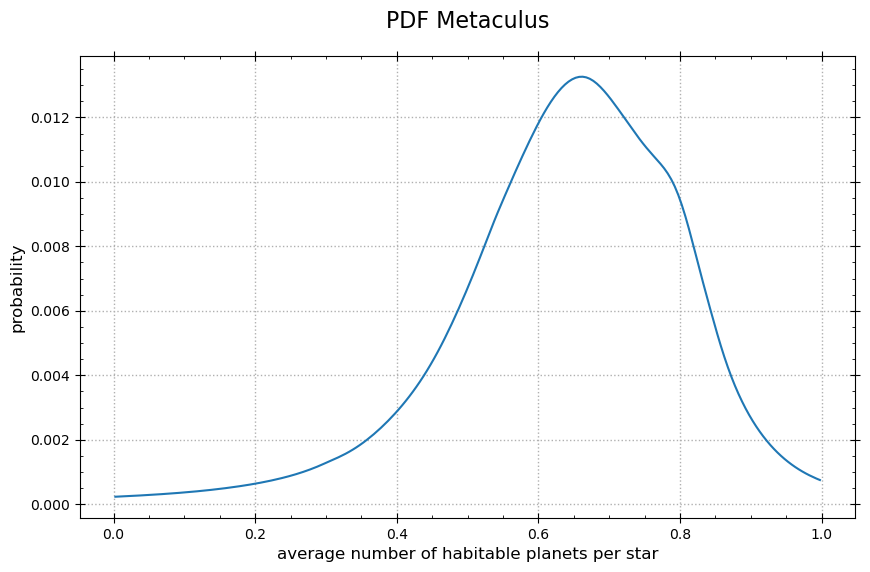
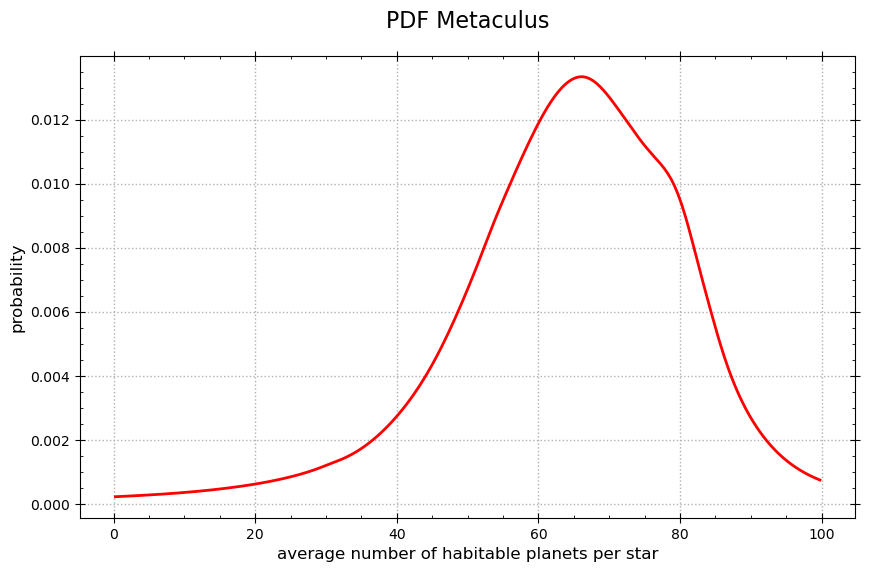
Avançando na leitura de dados via API.

diff --git a/Teste.py b/Teste.py
@@ -2,114 +2,52 @@ import pandas as pd
 import matplotlib.pyplot as plt
 from matplotlib.ticker import (MultipleLocator, AutoMinorLocator)
 
-y1 = [0.11509, 0.11786, 0.12068, 0.12354, 0.12645, 0.12942, 0.13243, 0.13549, 0.13861, 0.14178, 
-     0.14501, 0.1483, 0.15165, 0.15506, 0.15853, 0.16207, 0.16568, 0.16937, 0.17317, 0.17707, 
-     0.18108, 0.18521, 0.18945, 0.19381, 0.19828, 0.20288, 0.2076, 0.21245, 0.21742, 0.22252, 
-     0.22776, 0.23313, 0.23863, 0.24427, 0.25005, 0.25597, 0.26203, 0.26823, 0.27458, 0.28108, 
-     0.28773, 0.29453, 0.30148, 0.30859, 0.31587, 0.32332, 0.33093, 0.33873, 0.34671, 0.35489, 
-     0.36328, 0.37187, 0.38069, 0.38975, 0.39906, 0.40864, 0.41851, 0.42867, 0.43916, 0.45, 
-     0.46012, 0.46802, 0.47418, 0.4793, 0.48418, 0.48951, 0.49586, 0.5036, 0.51295, 0.524, 
-     0.53675, 0.55117, 0.56718, 0.58472, 0.60372, 0.62414, 0.64595, 0.66911, 0.69364, 0.71954, 
-     0.74683, 0.77552, 0.80567, 0.8373, 0.87046, 0.90521, 0.9416, 0.97969, 1.01956, 1.06128, 
-     1.10492, 1.15049, 1.19813, 1.24799, 1.30031, 1.35533, 1.41341, 1.47497, 1.54051, 1.61062, 
-     1.68588, 1.76681, 1.85364, 1.94604, 2.0427, 2.14103, 2.23697, 2.32527, 2.40042, 2.45798, 
-     2.50184, 2.53914, 2.5699, 2.59415, 2.61208, 2.62397, 2.63042, 2.63212, 2.62952, 2.62303, 
-     2.61256, 2.59809, 2.58004, 2.55873, 2.53459, 2.50801, 2.47937, 2.44896, 2.41699, 2.38359, 
-     2.34878, 2.31253, 2.27458, 2.23293, 2.18719, 2.13776, 2.08516, 2.03014, 1.97355, 1.91623, 
-     1.85893, 1.80223, 1.7466, 1.69233, 1.63959, 1.58847, 1.539, 1.4912, 1.44507, 1.40062, 
-     1.35784, 1.31681, 1.27765, 1.2405, 1.20547, 1.17263, 1.142, 1.1135, 1.08697, 1.06214, 
-     1.03866, 1.01607, 0.99385, 0.9714, 0.94809, 0.92326, 0.89635, 0.86692, 0.83296, 0.78833, 
-     0.73529, 0.67815, 0.62115, 0.56749, 0.51896, 0.47617, 0.43894, 0.40668, 0.37866, 0.35416, 
-     0.33253, 0.31324, 0.29588, 0.28011, 0.26567, 0.25235, 0.24001, 0.22851, 0.21776, 0.20768, 
-     0.1982, 0.18927, 0.18085, 0.17288, 0.16535, 0.15822, 0.15145, 0.14503, 0.13894, 0.13315, 
-     0.12765]
+# reading csv data from the API
 
-y2 = [0.03781, 0.03884, 0.0399, 0.04098, 0.0421, 0.04325, 0.04444, 0.04566, 0.04691, 0.0482, 
-      0.04953, 0.0509, 0.0523, 0.05376, 0.05525, 0.05679, 0.05838, 0.06002, 0.06172, 0.06347, 
-      0.06529, 0.06716, 0.06911, 0.07111, 0.07319, 0.07534, 0.07757, 0.07987, 0.08225, 0.08472, 
-      0.08727, 0.08991, 0.09264, 0.09547, 0.0984, 0.10143, 0.10458, 0.10783, 0.11121, 0.11471, 
-      0.11834, 0.12211, 0.12603, 0.1301, 0.13433, 0.13873, 0.14331, 0.14809, 0.15308, 0.15828, 
-      0.16373, 0.16942, 0.17538, 0.18163, 0.18819, 0.19508, 0.20233, 0.20995, 0.21798, 0.22643, 
-      0.23507, 0.24353, 0.25194, 0.26052, 0.2695, 0.27908, 0.28942, 0.30064, 0.31282, 0.32601, 
-      0.34021, 0.35543, 0.37167, 0.38891, 0.40715, 0.42638, 0.4466, 0.46781, 0.49, 0.51319, 
-      0.5374, 0.56263, 0.58891, 0.61627, 0.64473, 0.67434, 0.70514, 0.73716, 0.77046, 0.80508, 
-      0.84106, 0.87843, 0.91724, 0.95752, 0.99931, 1.04268, 1.08765, 1.13428, 1.18264, 1.23277, 
-      1.28473, 1.33857, 1.39427, 1.45173, 1.51072, 1.57079, 1.63129, 1.6914, 1.75023, 1.80706, 
-      1.86235, 1.91702, 1.97098, 2.02411, 2.07631, 2.12747, 2.17751, 2.22637, 2.27388, 2.31987, 
-      2.364, 2.40597, 2.44553, 2.48242, 2.51644, 2.54736, 2.575, 2.59916, 2.61961, 2.63616, 
-      2.64857, 2.65665, 2.66023, 2.65892, 2.65273, 2.6419, 2.62679, 2.6079, 2.58578, 2.56099, 
-      2.53408, 2.50552, 2.47575, 2.44512, 2.41399, 2.38266, 2.35144, 2.32064, 2.29056, 2.26148, 
-      2.2336, 2.207, 2.18155, 2.15684, 2.13205, 2.10594, 2.07686, 2.04291, 2.00219, 1.95321, 
-      1.89519, 1.82834, 1.7538, 1.67347, 1.58956, 1.50421, 1.41923, 1.33594, 1.25474, 1.17442, 
-      1.09578, 1.02, 0.9481, 0.88077, 0.81825, 0.7605, 0.70723, 0.65809, 0.6127, 0.57069, 
-      0.53176, 0.49562, 0.46203, 0.43081, 0.40176, 0.37474, 0.3496, 0.32622, 0.30449, 0.28429, 
-      0.26553, 0.2481, 0.23192, 0.2169, 0.20295, 0.19002, 0.17801, 0.16687, 0.15652, 0.14692, 
-      0.138]
+url_p1 = "https://www.metaculus.com/api2/questions/1337/download_csv/"
+url_p2 = "https://www.metaculus.com/api2/questions/1338/download_csv/"
+url_p3 = "https://www.metaculus.com/api2/questions/1339/download_csv/"
+url_p4 = "https://www.metaculus.com/api2/questions/1340/download_csv/"
+url_p5 = "https://www.metaculus.com/api2/questions/1341/download_csv/"
+url_p6 = "https://www.metaculus.com/api2/questions/1342/download_csv/"
+url_p7 = "https://www.metaculus.com/api2/questions/1343/download_csv/"
 
-df = pd.read_csv("Dados.txt", sep = "	")
+df_p1 = pd.read_csv(url_p3)
 
-print(df)
+# reducing data to just the PDF distribution
+
+df_p1 = df_p1.iloc[-2, 11:211].reset_index(drop = False)
+
+df_p1.columns = ['x_norm', 'PDF']
+
+df_p1["x_norm"].replace(to_replace = "pdf_at_", value = "", regex = True, inplace = True)
+
+df_p1["x_norm"] = df_p1["x_norm"].astype("float")
+df_p1["PDF"] = df_p1["PDF"].astype("float")
+df_p1["x"] = df_p1["x_norm"].apply(lambda x : 10**-6 + x*(100 - 10**-6))
+
+
+
+print(df_p1["PDF"].max())
+
+
+print(df_p1.info())
+print(df_p1.shape)
+print(df_p1.head())
+print(df_p1.tail())
 
 
 
 #-------------------------------------------
-print(len(y1), len(y2))
+# Figures
 
-#-------------------------------------------
 fig1, ax1 = plt.subplots(figsize = (10, 6))
 
-ax1.hist(y1, 
-         #range = (45, 200), 
-         histtype = "step", 
-         fill = True, 
-         density = True, 
-         #alpha = 0.2, 
-         #bins = 50, 
-         color = (1.0, 0.0, 0.0, 0.1), 
-         edgecolor = "red", 
-         linewidth = 2,
-         label = "y1")
+ax1.plot(df_p1["x"], df_p1["PDF"],
+         color = "red",
+         linewidth = 2)
 
-ax1.hist(y2, 
-         #range = (45, 200), 
-         histtype = "step", 
-         fill = True, 
-         density = True, 
-         #alpha = 0.2, 
-         #bins = 50, 
-         color = (0.0, 0.5, 0.5, 0.1), 
-         edgecolor = (0.0, 0.5, 0.5, 1.0), 
-         linewidth = 2,
-         label = "y2")
-
-#plt.legend()
-
-# Design
-ax1.set_xlabel("y", fontsize = 12)
-ax1.set_ylabel("Frequency", fontsize = 12)
-ax1.set_title("Metaculus", fontsize = 16, pad = 20)
-
-ax1.grid(True, linestyle = ":", linewidth = "1")
-
-# Axes
-#ax1.set_xlim(45, 200)
-#ax1.set_ylim(0, 300)
-#plt.yscale("log")
-
-ax1.minorticks_on()
-ax1.tick_params(which = "major", direction = "inout", length = 7)
-ax1.tick_params(which = "minor", direction = "in", length = 2)
-ax1.tick_params(which = "both", bottom = True, top = True, left=True, right = True)
-ax1.tick_params(labelbottom = True, labeltop = False, labelleft = True, labelright = False)
-
-plt.savefig("Y Metaculus.png", bbox_inches = "tight")
-
-#-------------------------------------------
-fig2, ax2 = plt.subplots(figsize = (10, 6))
-
-ax2.plot(df["prob"], df["pdf"])
-
-"""ax2.hist(y1, 
+"""ax1.hist(y1, 
          #range = (45, 200), 
          histtype = "step", 
          fill = True, 
@@ -124,22 +62,22 @@ ax2.plot(df["prob"], df["pdf"])
 #plt.legend()
 
 # Design
-ax2.set_xlabel("average number of habitable planets per star", fontsize = 12)
-ax2.set_ylabel("probability", fontsize = 12)
-ax2.set_title("PDF Metaculus", fontsize = 16, pad = 20)
+ax1.set_xlabel("average number of habitable planets per star", fontsize = 12)
+ax1.set_ylabel("probability", fontsize = 12)
+ax1.set_title("PDF Metaculus", fontsize = 16, pad = 20)
 
-ax2.grid(True, linestyle = ":", linewidth = "1")
+ax1.grid(True, linestyle = ":", linewidth = "1")
 
 # Axes
-#ax2.set_xlim(45, 200)
-#ax2.set_ylim(0, 300)
-#plt.yscale("log")
+#ax1.set_xlim(45, 200)
+#ax1.set_ylim(0, 300)
+#plt.xscale("log")
 
-ax2.minorticks_on()
-ax2.tick_params(which = "major", direction = "inout", length = 7)
-ax2.tick_params(which = "minor", direction = "in", length = 2)
-ax2.tick_params(which = "both", bottom = True, top = True, left=True, right = True)
-ax2.tick_params(labelbottom = True, labeltop = False, labelleft = True, labelright = False)
+ax1.minorticks_on()
+ax1.tick_params(which = "major", direction = "inout", length = 7)
+ax1.tick_params(which = "minor", direction = "in", length = 2)
+ax1.tick_params(which = "both", bottom = True, top = True, left=True, right = True)
+ax1.tick_params(labelbottom = True, labeltop = False, labelleft = True, labelright = False)
 
 plt.savefig("pdf Metaculus.png", bbox_inches = "tight")
 
